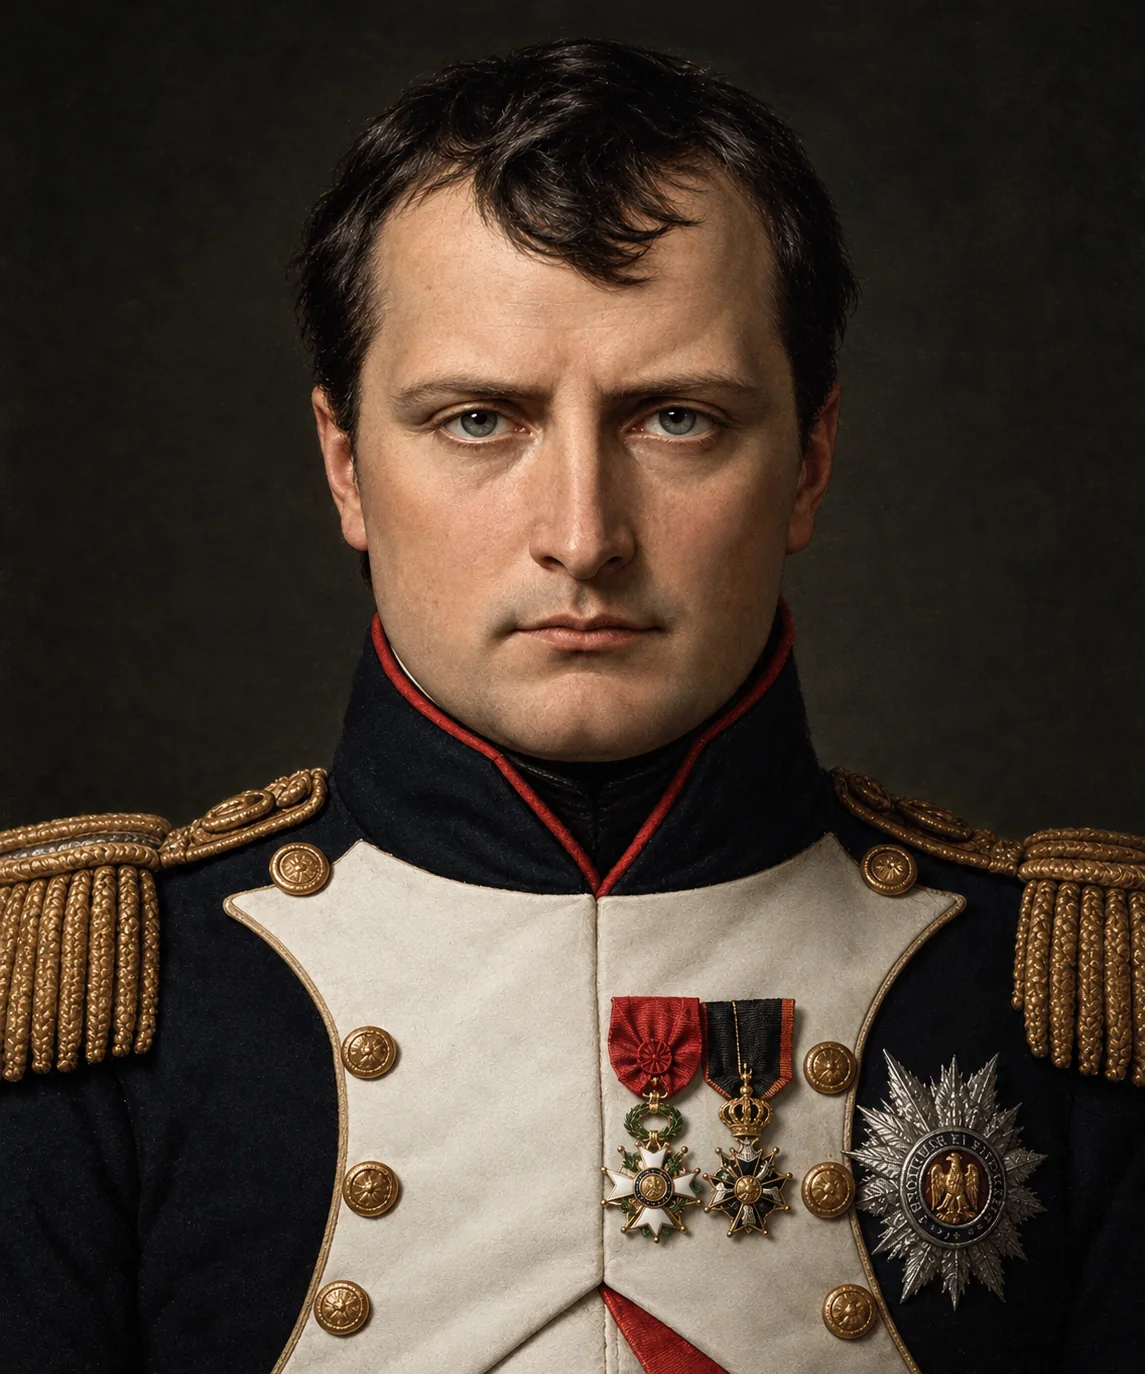
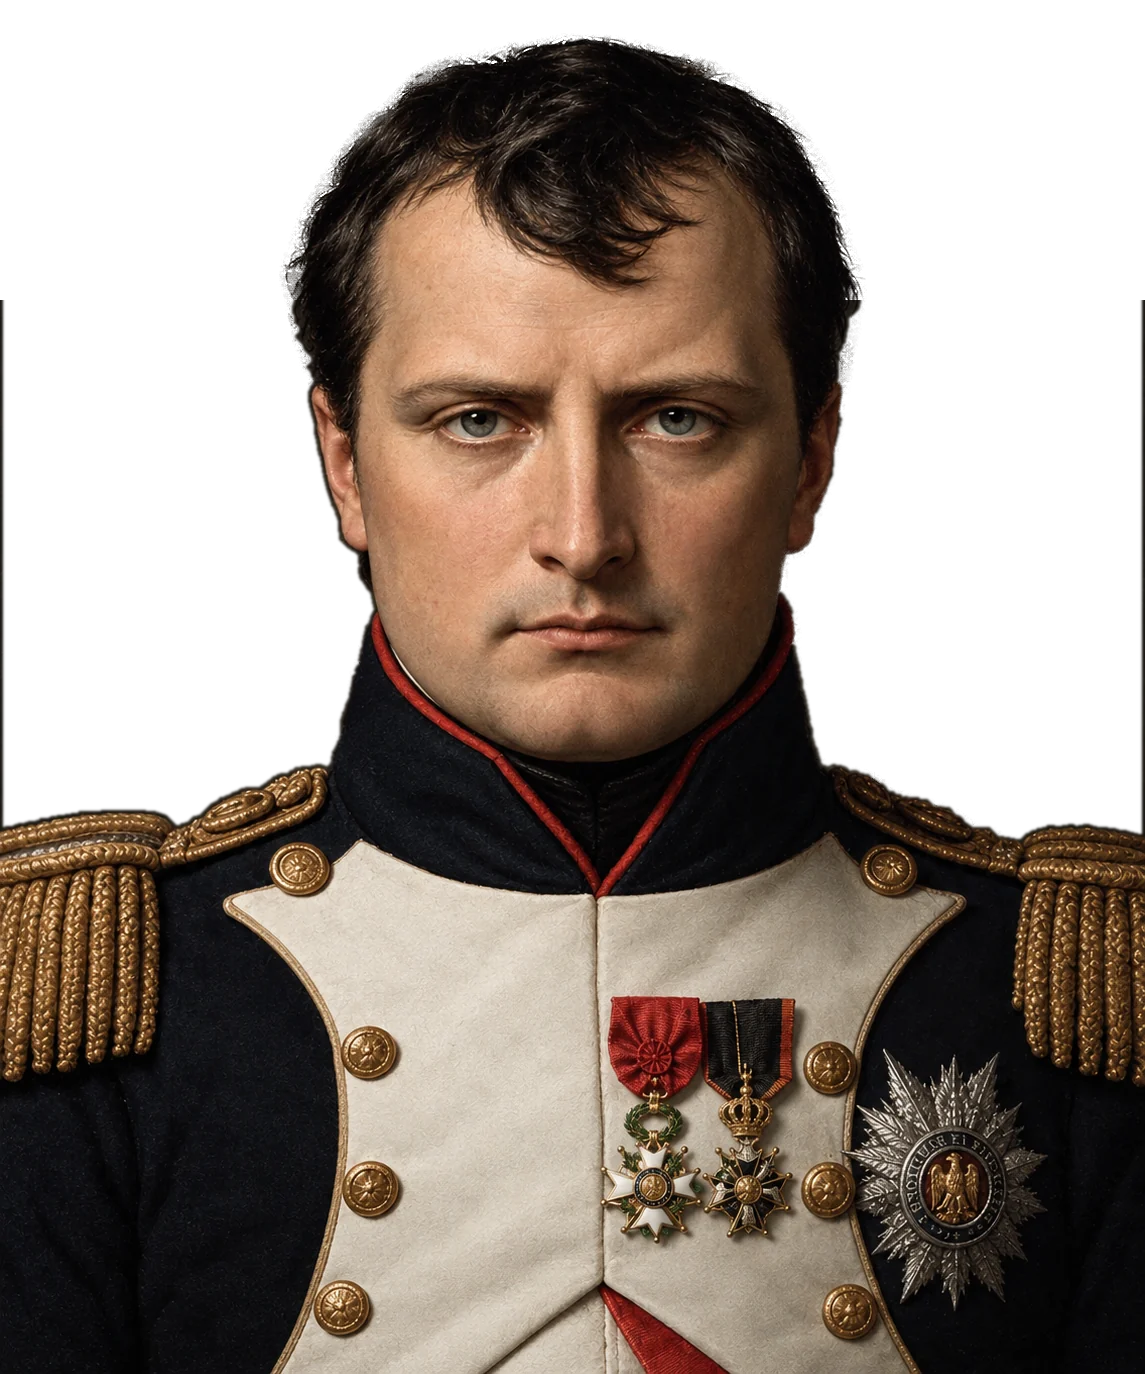
Grotte Napoléon : portrait détouré
Claude-Session: https://claude.ai/code/session_01Tg9JuPFfiTJrQ2axzwAjp1

diff --git a/clients/la-grotte-napoleon/grotte.css b/clients/la-grotte-napoleon/grotte.css
@@ -120,7 +120,8 @@ button{font:inherit;color:inherit;background:none;border:0;padding:0;cursor:poin
 @keyframes de-gauche{from{transform:translateX(-110vw);opacity:0}}
 @keyframes de-droite{from{transform:translateX(110vw);opacity:0}}
 .portrait{position:absolute;left:50%;bottom:0;z-index:2;width:min(100vw,60svh * 1145 / 1374);aspect-ratio:1145/1374;transform:translateX(-50%);animation:monte-portrait 1.2s .2s var(--doux) both}
-.portrait>img:first-child{width:100%;height:100%;-webkit-mask-image:radial-gradient(ellipse 62% 70% at 50% 40%,#000 62%,transparent 100%);mask-image:radial-gradient(ellipse 62% 70% at 50% 40%,#000 62%,transparent 100%)}
+/* le portrait est détouré (fond transparent) : seules les manches, coupées par le bord de l'image, se fondent dans la paroi */
+.portrait>img:first-child{width:100%;height:100%;-webkit-mask-image:linear-gradient(to right,transparent 0,#000 7%,#000 93%,transparent 100%);mask-image:linear-gradient(to right,transparent 0,#000 7%,#000 93%,transparent 100%);filter:drop-shadow(0 0 36px rgba(0,0,0,.55))}
 @keyframes monte-portrait{from{opacity:0;transform:translate(-50%,30px)}}
 .ombre-chapeau{position:absolute;left:22%;width:56%;top:9%;height:14%;border-radius:50%;background:radial-gradient(closest-side,rgba(10,8,6,.55),transparent);opacity:0;pointer-events:none}
 .bicorne{position:absolute;left:4%;top:-19%;width:92%;height:auto;transform-origin:50% 85%;will-change:transform;filter:drop-shadow(0 18px 22px rgba(0,0,0,.45))}

diff --git a/ETAT.md b/ETAT.md
@@ -12,7 +12,7 @@ Le site : écran d'entrée (`index.html`), accueil (`accueil.html`), tarifs, dev
 
 - **13 démos** `demo-*.html`, chacune dans un genre différent (14 genres dans `themes.json`, dessinés par `themes.js`). Toutes passent la vérification.
 - **Sites clients** dans `clients/` (non indexés) : `bobyshop`, `la-grotte-napoleon`, `masterhotel`, `vitrier-prince`, `mademoiselle-charlotte`.
-- **La Grotte Napoléon** (`clients/la-grotte-napoleon/`, **en ligne pour test** sur https://saitora.fr/clients/la-grotte-napoleon/ depuis le 30 octobre 2026 avec l'accord de l'utilisateur, non indexé, site du **père de l'utilisateur**, Joseph, SARL La Grotte Napoléon, 4 rue Saint-Charles à Ajaccio ; refonte complète de lagrottenapoleon.fr, un WordPress/WooCommerce chaotique ; on garde le domaine, le téléphone 04 95 28 04 61 et l'e-mail du site). Concept : séance d'une heure sur l'enfance de Napoléon projetée sur plusieurs écrans dans une salle sombre, son multilingue, autour d'un spuntinu corse. Refaite le 29 octobre 2026 à partir du vrai site (lu une fois le domaine autorisé dans le réseau de la session) : vraies photos et vidéo du client (`images/SOURCES.txt`), avis réels repris de son site. L'ancienne maquette du 23 octobre (présentée comme simple restaurant, photos Pixabay) reste dans git. Style Art déco / Empire tiré avec `--refaire`. **Ouverture (demande de l'utilisateur, à la place de la photo)** : le portrait peint de Napoléon tête nue et le bicorne envoyés par l'utilisateur (`images/napoleon.webp`, `images/bicorne.webp` détouré avec rembg) ; en descendant (section collante de 240 svh), le bicorne tombe du haut en se balançant et se pose sur sa tête avec un petit rebond et une ombre sur le front, pendant que les trois lignes du titre géant repartent chacune de leur côté comme sur l'accueil de Saitora ; phrase et boutons juste après ; sans animation si le mouvement réduit est demandé. Ensuite : sceau tournant autour de la couronne, Marcellus + Figtree, navigation centrée autour du logo, formules en onglets, frise 1769-1799 de l'enfance à Ajaccio, bloc « Venir » rouge avec le téléphone en très grand, pied en or). **Trois pages** (30 octobre 2026, conseil accepté) : l'accueil garde les prochaines séances et les formules en trois cartes (prix, horaires, « Voir le détail ») ; `formules.html` porte tout le détail (menu, enfants, groupes) avec des ancres `#complete`, `#decouverte`, `#groupes` ; `reserver.html` est la réservation en pleine page, à partager (fiche Google, TripAdvisor, Instagram, QR code), et accepte `?formule=complete&jour=AAAA-MM-JJ&heure=1200`. Sur l'accueil et les formules, « Réserver » ouvre toujours le panneau (le lien mène à `reserver.html` si le script ne tourne pas). Style et script communs : `grotte.css`, `grotte.js`. **Habillage refait à la manière de Saitora le 30 octobre 2026** (avis de l'utilisateur : boutons et ornements « AI slop ») : Inter Tight seule (plus de Marcellus), titres en minuscules serrés, troisième ligne du titre géant en contour comme sur Saitora, bouton plein en dégradé champagne, liens « fantômes » avec flèche, panneaux arrondis, chiffres et frise à filets, contact en « puits », menu téléphone à lignes numérotées ; plus de losanges, cadres dorés, sceau, arche ni bloc rouge ; pages légales au même style. **Fond du site gris-noir repris du fond du portrait** (`--nuit:#161411`, demande de l'utilisateur), or et rouge gardés. Sur ordinateur le portrait est à droite, le titre à gauche, puis la phrase et les boutons apparaissent à gauche quand le chapeau est posé. **Six langues** comme l'ancien site (FR, EN, IT, DE, ES, corse ; `textes.js`, langue du téléphone ou `?lang=`, le corse est à faire relire). Idée vivante : **prochaines séances** (aujourd'hui et demain, places restantes sur 30, losange d'or = repas possible) puis panneau de réservation : formule, jour (mois en boutons), heure, adultes / enfants 7-12 / moins de 7 gratuits, langue du film, paiement **Stripe en ligne ou sur place** (choix de l'utilisateur), coordonnées, billet à la fin. Formules : complète 48 € / 30 € enfant (12 h, 13 h 30, 20 h, 21 h 30), découverte 15 € (12 h à 21 h 30), groupes et privatisation. **Maquette** : places d'exemple (stables par jour et heure) et réservations gardées dans le navigateur ; à brancher sur Supabase + Stripe. Textes : les phrases d'origine du site reprises (« Napoléon l'Ajaccien », « l'enfance déterminante de Napuliò », l'importance de la Corse, le spuntinu, la boutique), le **corse repris de son ancien site** (parler d'Ajaccio : « Viniti à scopra… », « inciullati, inarbittati », « A Buttega », « Risirvà ») ; anglais, allemand, espagnol réécrits (ceux de l'ancien site étaient fautifs), italien repris. Pages légales refaites sur le site : `mentions-legales.html`, `cgv.html` (Stripe ou sur place, pas de rétractation L221-28 12°, annulation proposée gratuite jusqu'à 24 h avant **à valider**, médiateur à nommer), `confidentialite.html` (sans cookie ni mesure d'audience) ; « En réservant, vous acceptez nos conditions de vente » dans le panneau. Vidéos (demande : « remets toutes les vidéos, on triera après ») : la vidéo du site (`seance.mp4`, « 5 lieux emblématiques pour découvrir Napoléon », avec le son au toucher) dans l'arche de la séance, et le film de présentation dans une section « En vidéo » : d'abord le YouTube de l'ancien site, **remplacé le 30 octobre 2026 par le fichier envoyé par l'utilisateur** (`images/film.mp4`, 1 min 32, réencodé en 960 px, 9 Mo, chargé seulement au toucher ; plus rien de YouTube sur le site ni dans la confidentialité). **Fond « papier rocher » (30 octobre 2026, demande de l'utilisateur : un fond qui fasse grotte, comme le papier des crèches et les parois de la salle)** : texture fabriquée par `outils/papier_rocher.py` (relief froissé calculé, éclairé en lumière rasante, qui se répète sans couture, image pleine de 30 Ko), `images/roche.webp` sur le fond et `images/roche-profond.webp` sur le menu, « Venir » et le pied ; variables `--roche` et `--roche-profond` dans `grotte.css`. Pour la refaire plus ou moins marquée : `--force` (1.4 aujourd'hui). **Essais de style abandonnés (30 octobre 2026)** : deux fiches de style envoyées par l'utilisateur (« vide » d'après Dala : noir pur, violet, triangles ; « studio » d'après Stink Studios : noir et blanc, Helvetica / Times / Courier) puis sa palette impériale (noir #171717, ivoire #F2E6C9, or #C9A227 et #E5B94B, pourpre #701C35, bleu #243B65) ont été essayées en surcouches ; **rien ne lui a plu, retour à la version d'avant** (celle avec le nouveau film). Le code des essais reste dans git (commits « essai de style » du 30 octobre) si on veut y repuiser. **Version à ouvrir dans Claude** (le réseau du travail de l'utilisateur bloque saitora.fr) : copie autonome publiée en artefact privé https://claude.ai/artifact/FUf2dVq3CJkFbwXnM9XknB (polices incluses, liens « ./ » changés en `index.html`, lien Saitora du pied retiré) ; à republier depuis le même dossier du bloc-notes après chaque changement, sinon la refaire de la même façon. Les 20 avis de l'ancien site : en attente (l'utilisateur ne veut pas encore de « voir plus »). **À valider** : durée de la découverte (40 min sur l'affiche 2025, 1 h dans le texte), saison et jours de fermeture, laquelle des deux adresses e-mail (lagrottenapoleon.fr ou napoleon1769.corsica), City Pass toujours valable, droits de la carte et de la gravure, liens CGV / mentions (pointent encore vers l'ancien site), traduction corse. Plus tard : boutique de souvenirs en ligne (Stripe), appli Saitorapp restaurant/séances.
+- **La Grotte Napoléon** (`clients/la-grotte-napoleon/`, **en ligne pour test** sur https://saitora.fr/clients/la-grotte-napoleon/ depuis le 30 octobre 2026 avec l'accord de l'utilisateur, non indexé, site du **père de l'utilisateur**, Joseph, SARL La Grotte Napoléon, 4 rue Saint-Charles à Ajaccio ; refonte complète de lagrottenapoleon.fr, un WordPress/WooCommerce chaotique ; on garde le domaine, le téléphone 04 95 28 04 61 et l'e-mail du site). Concept : séance d'une heure sur l'enfance de Napoléon projetée sur plusieurs écrans dans une salle sombre, son multilingue, autour d'un spuntinu corse. Refaite le 29 octobre 2026 à partir du vrai site (lu une fois le domaine autorisé dans le réseau de la session) : vraies photos et vidéo du client (`images/SOURCES.txt`), avis réels repris de son site. L'ancienne maquette du 23 octobre (présentée comme simple restaurant, photos Pixabay) reste dans git. Style Art déco / Empire tiré avec `--refaire`. **Ouverture (demande de l'utilisateur, à la place de la photo)** : le portrait peint de Napoléon tête nue et le bicorne envoyés par l'utilisateur (`images/napoleon.webp`, `images/bicorne.webp` détouré avec rembg) ; en descendant (section collante de 240 svh), le bicorne tombe du haut en se balançant et se pose sur sa tête avec un petit rebond et une ombre sur le front, pendant que les trois lignes du titre géant repartent chacune de leur côté comme sur l'accueil de Saitora ; phrase et boutons juste après ; sans animation si le mouvement réduit est demandé. Ensuite : sceau tournant autour de la couronne, Marcellus + Figtree, navigation centrée autour du logo, formules en onglets, frise 1769-1799 de l'enfance à Ajaccio, bloc « Venir » rouge avec le téléphone en très grand, pied en or). **Trois pages** (30 octobre 2026, conseil accepté) : l'accueil garde les prochaines séances et les formules en trois cartes (prix, horaires, « Voir le détail ») ; `formules.html` porte tout le détail (menu, enfants, groupes) avec des ancres `#complete`, `#decouverte`, `#groupes` ; `reserver.html` est la réservation en pleine page, à partager (fiche Google, TripAdvisor, Instagram, QR code), et accepte `?formule=complete&jour=AAAA-MM-JJ&heure=1200`. Sur l'accueil et les formules, « Réserver » ouvre toujours le panneau (le lien mène à `reserver.html` si le script ne tourne pas). Style et script communs : `grotte.css`, `grotte.js`. **Habillage refait à la manière de Saitora le 30 octobre 2026** (avis de l'utilisateur : boutons et ornements « AI slop ») : Inter Tight seule (plus de Marcellus), titres en minuscules serrés, troisième ligne du titre géant en contour comme sur Saitora, bouton plein en dégradé champagne, liens « fantômes » avec flèche, panneaux arrondis, chiffres et frise à filets, contact en « puits », menu téléphone à lignes numérotées ; plus de losanges, cadres dorés, sceau, arche ni bloc rouge ; pages légales au même style. **Fond du site gris-noir repris du fond du portrait** (`--nuit:#161411`, demande de l'utilisateur), or et rouge gardés. Sur ordinateur le portrait est à droite, le titre à gauche, puis la phrase et les boutons apparaissent à gauche quand le chapeau est posé. **Six langues** comme l'ancien site (FR, EN, IT, DE, ES, corse ; `textes.js`, langue du téléphone ou `?lang=`, le corse est à faire relire). Idée vivante : **prochaines séances** (aujourd'hui et demain, places restantes sur 30, losange d'or = repas possible) puis panneau de réservation : formule, jour (mois en boutons), heure, adultes / enfants 7-12 / moins de 7 gratuits, langue du film, paiement **Stripe en ligne ou sur place** (choix de l'utilisateur), coordonnées, billet à la fin. Formules : complète 48 € / 30 € enfant (12 h, 13 h 30, 20 h, 21 h 30), découverte 15 € (12 h à 21 h 30), groupes et privatisation. **Maquette** : places d'exemple (stables par jour et heure) et réservations gardées dans le navigateur ; à brancher sur Supabase + Stripe. Textes : les phrases d'origine du site reprises (« Napoléon l'Ajaccien », « l'enfance déterminante de Napuliò », l'importance de la Corse, le spuntinu, la boutique), le **corse repris de son ancien site** (parler d'Ajaccio : « Viniti à scopra… », « inciullati, inarbittati », « A Buttega », « Risirvà ») ; anglais, allemand, espagnol réécrits (ceux de l'ancien site étaient fautifs), italien repris. Pages légales refaites sur le site : `mentions-legales.html`, `cgv.html` (Stripe ou sur place, pas de rétractation L221-28 12°, annulation proposée gratuite jusqu'à 24 h avant **à valider**, médiateur à nommer), `confidentialite.html` (sans cookie ni mesure d'audience) ; « En réservant, vous acceptez nos conditions de vente » dans le panneau. Vidéos (demande : « remets toutes les vidéos, on triera après ») : la vidéo du site (`seance.mp4`, « 5 lieux emblématiques pour découvrir Napoléon », avec le son au toucher) dans l'arche de la séance, et le film de présentation dans une section « En vidéo » : d'abord le YouTube de l'ancien site, **remplacé le 30 octobre 2026 par le fichier envoyé par l'utilisateur** (`images/film.mp4`, 1 min 32, réencodé en 960 px, 9 Mo, chargé seulement au toucher ; plus rien de YouTube sur le site ni dans la confidentialité). **Fond « papier rocher » (30 octobre 2026, demande de l'utilisateur : un fond qui fasse grotte, comme le papier des crèches et les parois de la salle)** : texture fabriquée par `outils/papier_rocher.py` (relief froissé calculé, éclairé en lumière rasante, qui se répète sans couture, image pleine de 30 Ko), `images/roche.webp` sur le fond et `images/roche-profond.webp` sur le menu, « Venir » et le pied ; variables `--roche` et `--roche-profond` dans `grotte.css`. Pour la refaire plus ou moins marquée : `--force` (1.4 aujourd'hui). **Portrait détouré (30 octobre 2026, demande de l'utilisateur)** : `images/napoleon.webp` a maintenant un fond transparent (contour des cheveux et du visage par rembg isnet avec affinage des bords ; l'habit bleu nuit et les épaulettes, que l'outil confondait avec le fond, récupérés en repérant le fond brun et lisse par sa couleur à partir du haut de l'image) ; dans `grotte.css`, plus de masque en ellipse, seulement un fondu sur les manches coupées par le bord de l'image et une ombre douce qui détache le personnage de la paroi. **Essais de style abandonnés (30 octobre 2026)** : deux fiches de style envoyées par l'utilisateur (« vide » d'après Dala : noir pur, violet, triangles ; « studio » d'après Stink Studios : noir et blanc, Helvetica / Times / Courier) puis sa palette impériale (noir #171717, ivoire #F2E6C9, or #C9A227 et #E5B94B, pourpre #701C35, bleu #243B65) ont été essayées en surcouches ; **rien ne lui a plu, retour à la version d'avant** (celle avec le nouveau film). Le code des essais reste dans git (commits « essai de style » du 30 octobre) si on veut y repuiser. **Version à ouvrir dans Claude** (le réseau du travail de l'utilisateur bloque saitora.fr) : copie autonome publiée en artefact privé https://claude.ai/artifact/FUf2dVq3CJkFbwXnM9XknB (polices incluses, liens « ./ » changés en `index.html`, lien Saitora du pied retiré) ; à republier depuis le même dossier du bloc-notes après chaque changement, sinon la refaire de la même façon. Les 20 avis de l'ancien site : en attente (l'utilisateur ne veut pas encore de « voir plus »). **À valider** : durée de la découverte (40 min sur l'affiche 2025, 1 h dans le texte), saison et jours de fermeture, laquelle des deux adresses e-mail (lagrottenapoleon.fr ou napoleon1769.corsica), City Pass toujours valable, droits de la carte et de la gravure, liens CGV / mentions (pointent encore vers l'ancien site), traduction corse. Plus tard : boutique de souvenirs en ligne (Stripe), appli Saitorapp restaurant/séances.
 - **Mademoiselle Charlotte** (`clients/mademoiselle-charlotte/`, **en ligne** sur https://saitora.fr/clients/mademoiselle-charlotte/ depuis le 29 octobre 2026, avec l'accord de l'utilisateur, seule sur la branche publiée (le reste du travail en attente n'y est pas), amie de la femme de l'utilisateur, accessoires sur mesure pour enfants : bavoirs brodés, coffrets de naissance, doudous, cadres ; sa boutique actuelle est sur SumUp, `mademoiselle-charlotte-1.sumupstore.com`, que la session ne peut pas lire à cause de la vérification anti-robot de Cloudflare : contenu repris des captures envoyées). Maquette d'après la fiche DESIGN8 « Swap » aux couleurs du logo (lilas, fuchsia, prune), Fraunces fine + Schibsted Grotesk ; 24 créations avec filtres, idée « Broder un prénom » (bavoir dessiné, prénom ou mot corse, gaze, fil, petit signe) ; la commande et le paiement restent sur la boutique SumUp. Logo rond reçu de l'utilisateur (`images/logo.webp`, `logo-petit.webp/.png`, coins transparents) : dans l'en-tête à côté du nom, en grand au-dessus du titre, au pied et en icône. Sans mention « en corse » ni traductions (demande de l'utilisateur) ; contrôles refaits sans pilules (coupons de gaze crantés, bobines de fil, cœur et étoile dessinés, prénom écrit sur une ligne, filtres en mots avec leur nombre), sans petites étiquettes en capitales, sans numéros de section ni cartes ombrées. Panier sur le site (demande de l'utilisateur : ne plus envoyer vers SumUp) : `panier.js` (gardé dans le navigateur), `panier.html` (lignes, prénoms, quantités, total, formulaire nom, téléphone ou e-mail, remise, mot) ; **l'envoi de la commande n'est pas branché** (pas d'adresse de Charlotte ni de service d'envoi) : la page montre le résumé et le dit ; à brancher avant la vraie mise en service (e-mail de la boutique, ou paiement par liens SumUp/Stripe). Fiches produits (s'ouvrent toujours en haut) : `produit.html?p=<nom>` (une seule page qui lit `pieces.js`, la liste partagée avec l'accueil ; styles communs dans `charlotte.css`) avec photo, prix, texte, prénom à broder si personnalisable, quantité, « Commander sur la boutique » qui copie la note de commande (création × quantité : « prénom ») à coller sur SumUp, précédente / suivante et « Vous aimerez aussi ». **À valider** : photos (découpées dans les captures, petites : demander les originales), textes des fiches (écrits d'après les photos), noms de certains produits (coffrets, danseuses), contact, livraison ou remise en main propre.
 - **Méthode pour créer un site** : skill `.claude/skills/nouveau-site/SKILL.md` (toujours la suivre). Elle enchaîne la charte, le tirage (`outils/tirage.py`), les skills de design, les règles apprises, la vérification et l'enregistrement.
 - **Outils** (`outils/`) :
